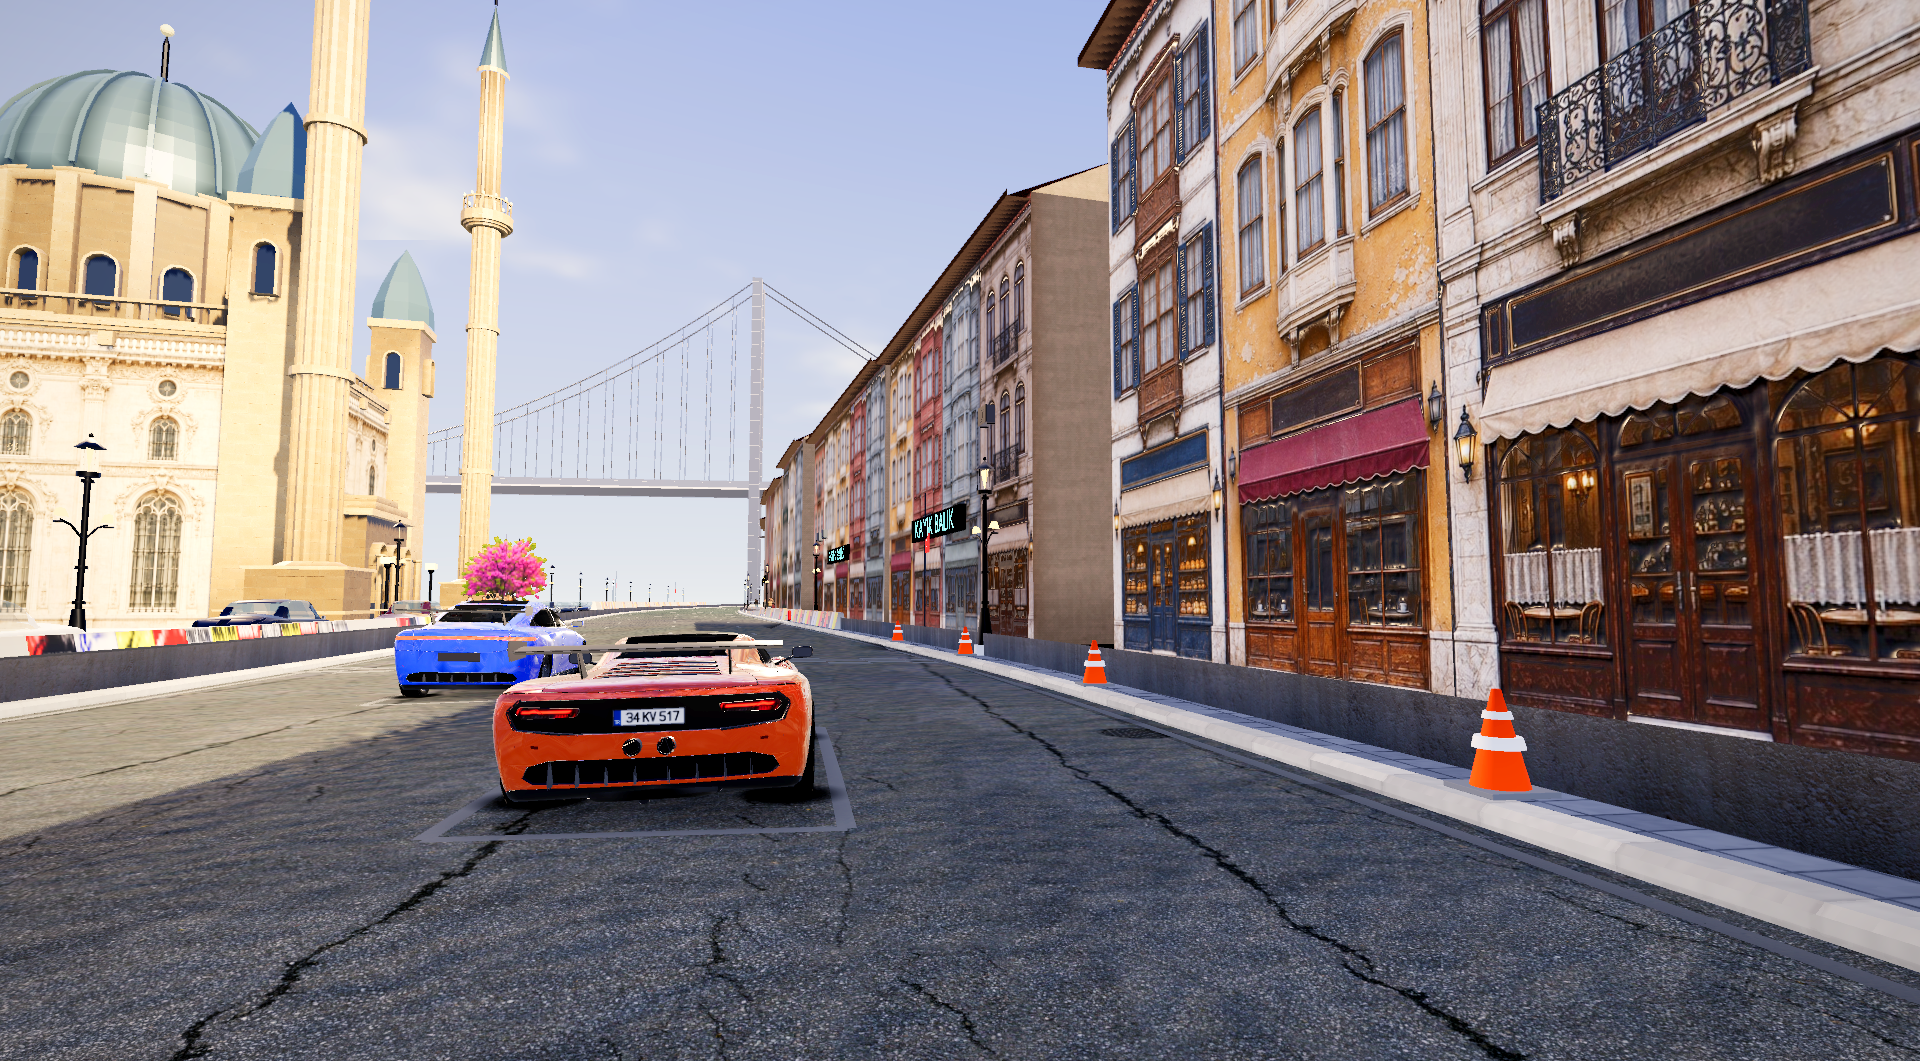
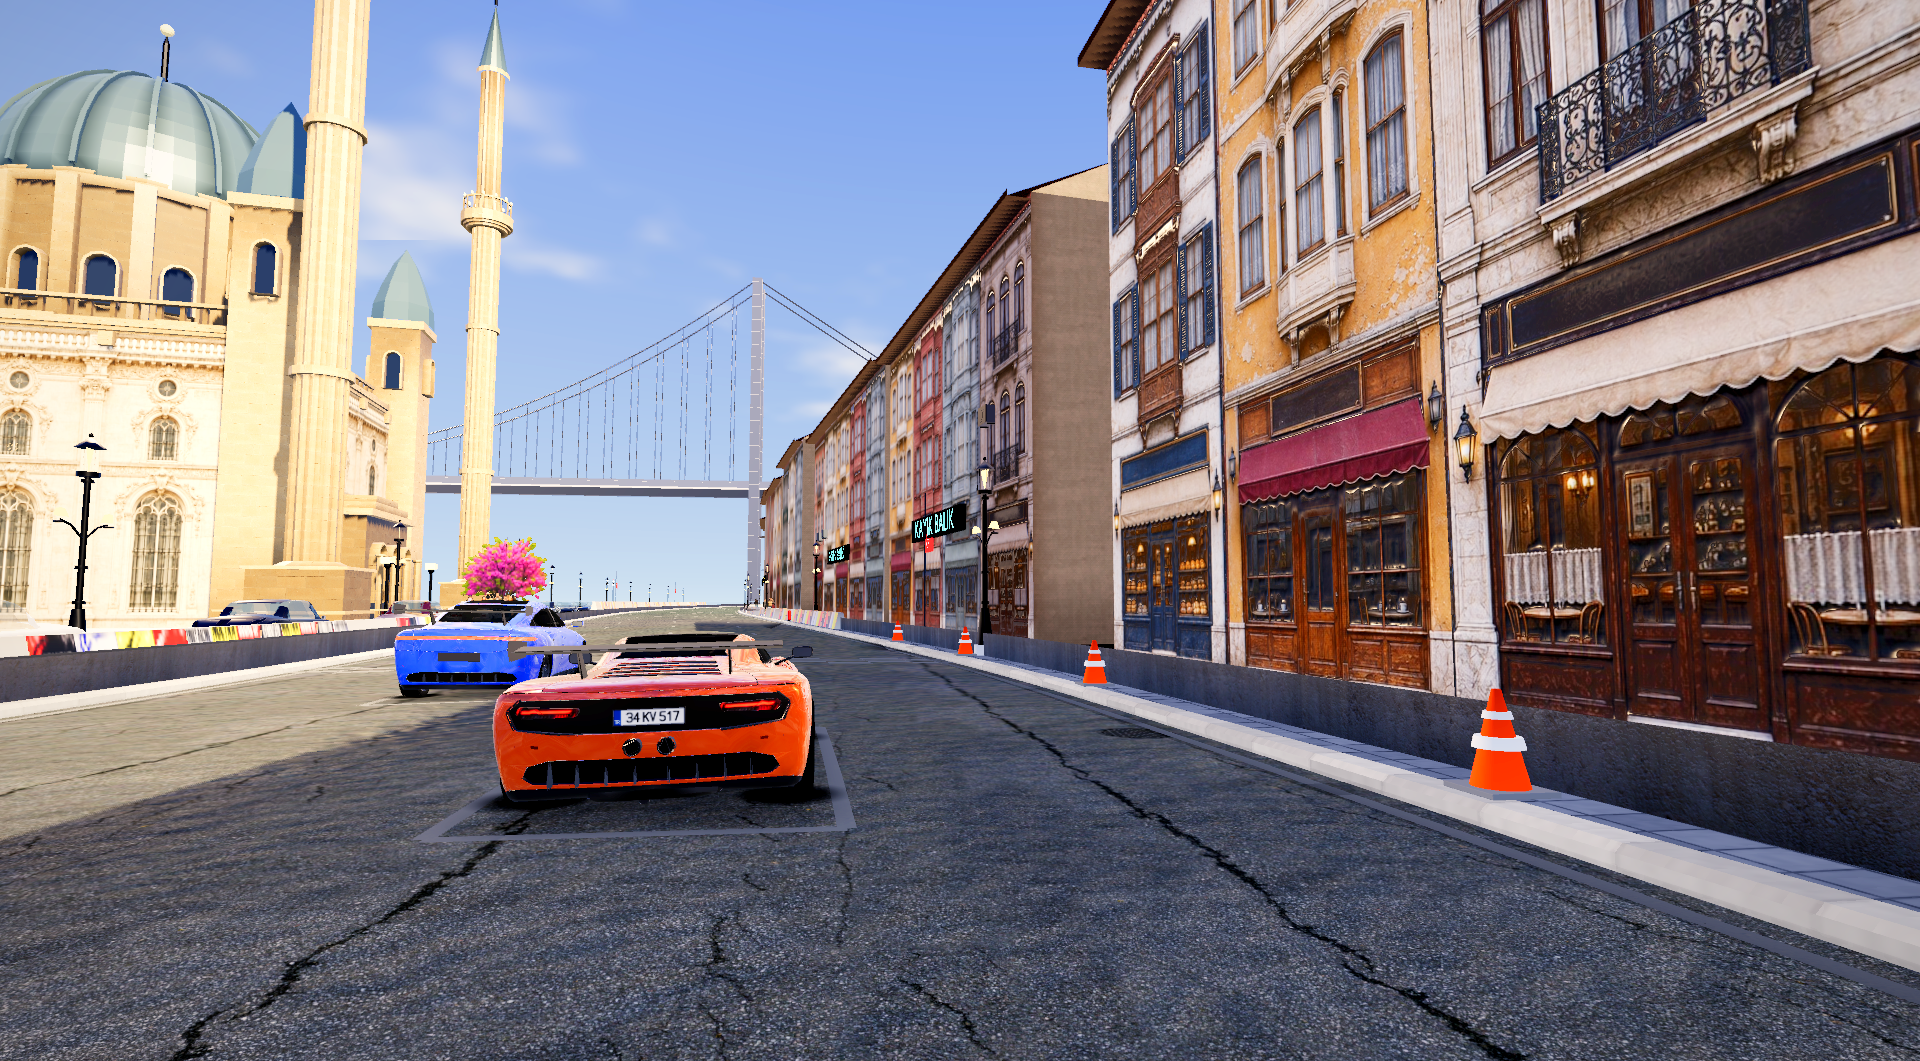
Day: clear Bosphorus sky (haze stays on the far shore), arcade-bright grade; before/after sheets (same camera, same preset) in evidence/screens/before_after_2026-11-28 via tools/before_after.py

Changed region(s): [[0.0, 0.0, 0.5938, 0.7465]]

diff --git a/tools/before_after.py b/tools/before_after.py
@@ -1,0 +1,50 @@
+"""Side-by-side before/after sheets from two folders of harness captures (same shot names = same camera and preset).
+
+Usage: py -3.10 tools/before_after.py <before_dir> <after_dir> <out_dir> [shot ...]
+Default shots: the Ortakoy benchmark views. Each sheet is BEFORE | AFTER at half size, labelled, JPEG quality 88.
+"""
+import os
+import sys
+
+from PIL import Image, ImageDraw
+
+SHOTS = ["bench_day_hero", "bench_day_street", "bench_day_car34", "bench_day_mosque", "bench_day_gameplay",
+         "bench_night_hero", "bench_night_street", "bench_night_gameplay"]
+
+
+def sheet(before: str, after: str, out: str, label: str) -> None:
+    a = Image.open(before).convert("RGB")
+    b = Image.open(after).convert("RGB")
+    w, h = a.width // 2, a.height // 2
+    a = a.resize((w, h), Image.LANCZOS)
+    b = b.resize((w, h), Image.LANCZOS)
+    s = Image.new("RGB", (w * 2 + 8, h + 40), (12, 12, 16))
+    s.paste(a, (0, 40))
+    s.paste(b, (w + 8, 40))
+    d = ImageDraw.Draw(s)
+    d.text((10, 12), "BEFORE (feature/vertical-slice a4c30a1)  " + label, fill=(230, 230, 230))
+    d.text((w + 18, 12), "AFTER (release/rc-2026-11-28)  " + label, fill=(230, 230, 230))
+    s.save(out, quality=88)
+
+
+def main() -> int:
+    if len(sys.argv) < 4:
+        print(__doc__)
+        return 2
+    src, dst, out = sys.argv[1], sys.argv[2], sys.argv[3]
+    shots = sys.argv[4:] or SHOTS
+    os.makedirs(out, exist_ok=True)
+    n = 0
+    for name in shots:
+        p, q = os.path.join(src, name + ".png"), os.path.join(dst, name + ".png")
+        if os.path.exists(p) and os.path.exists(q):
+            sheet(p, q, os.path.join(out, name + ".jpg"), name)
+            n += 1
+        else:
+            print("missing:", name)
+    print(f"{n} sheets in {out}")
+    return 0
+
+
+if __name__ == "__main__":
+    sys.exit(main())
